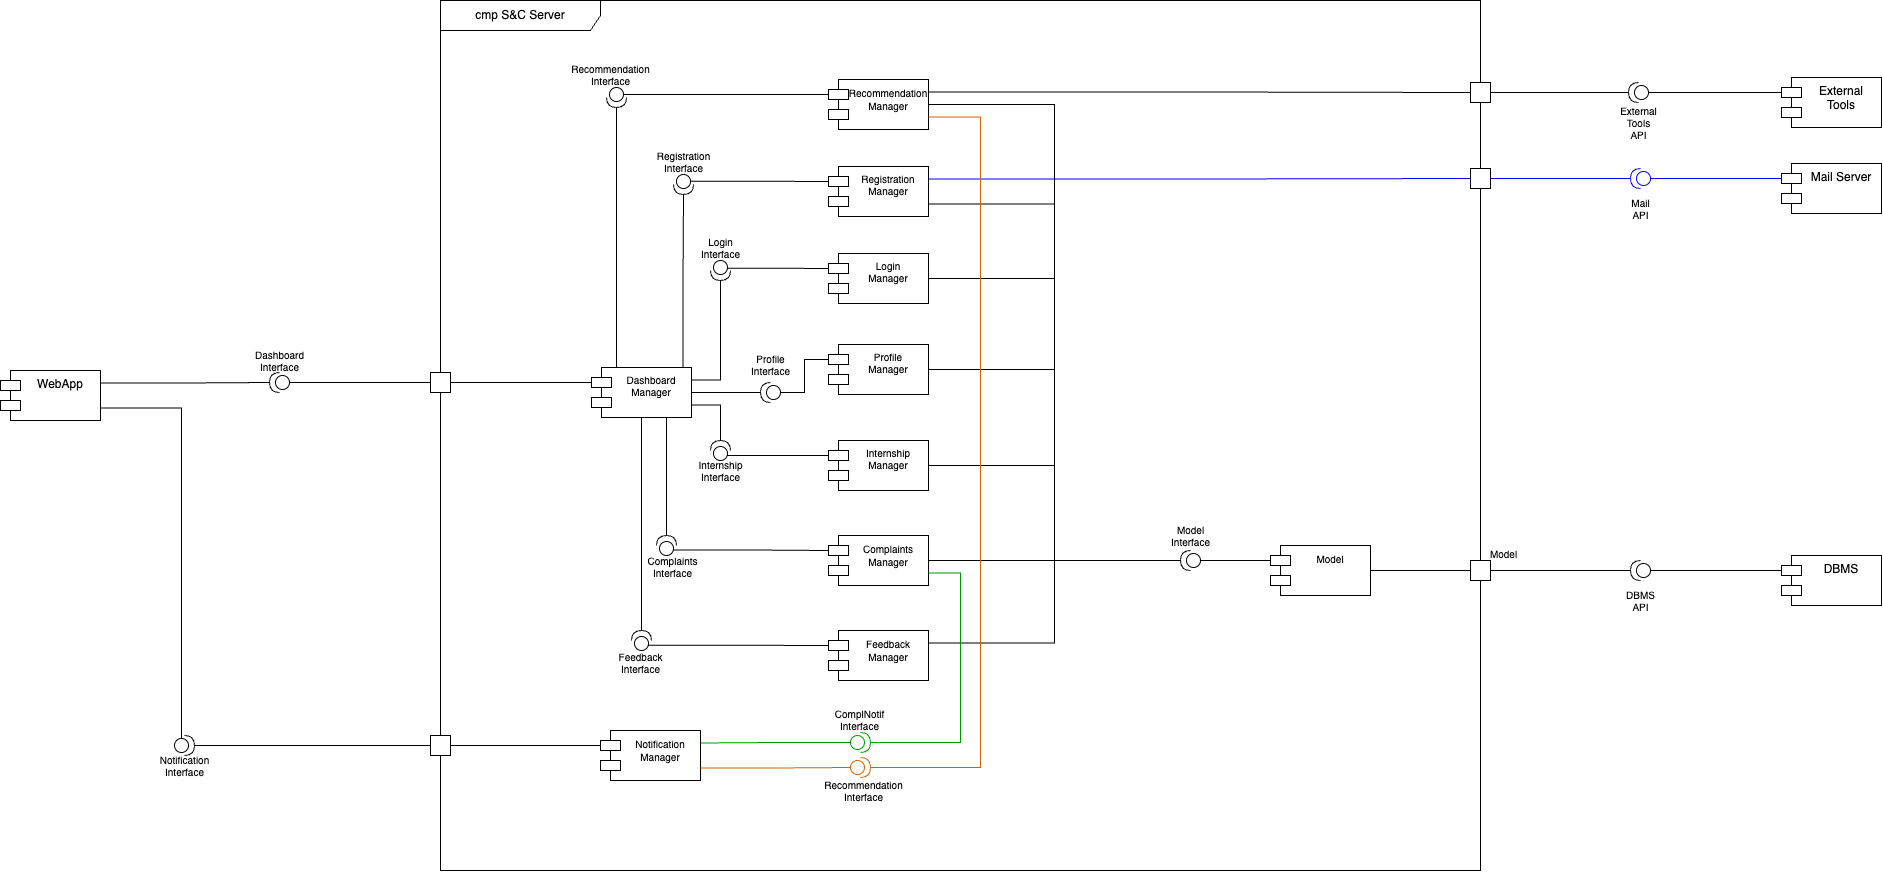
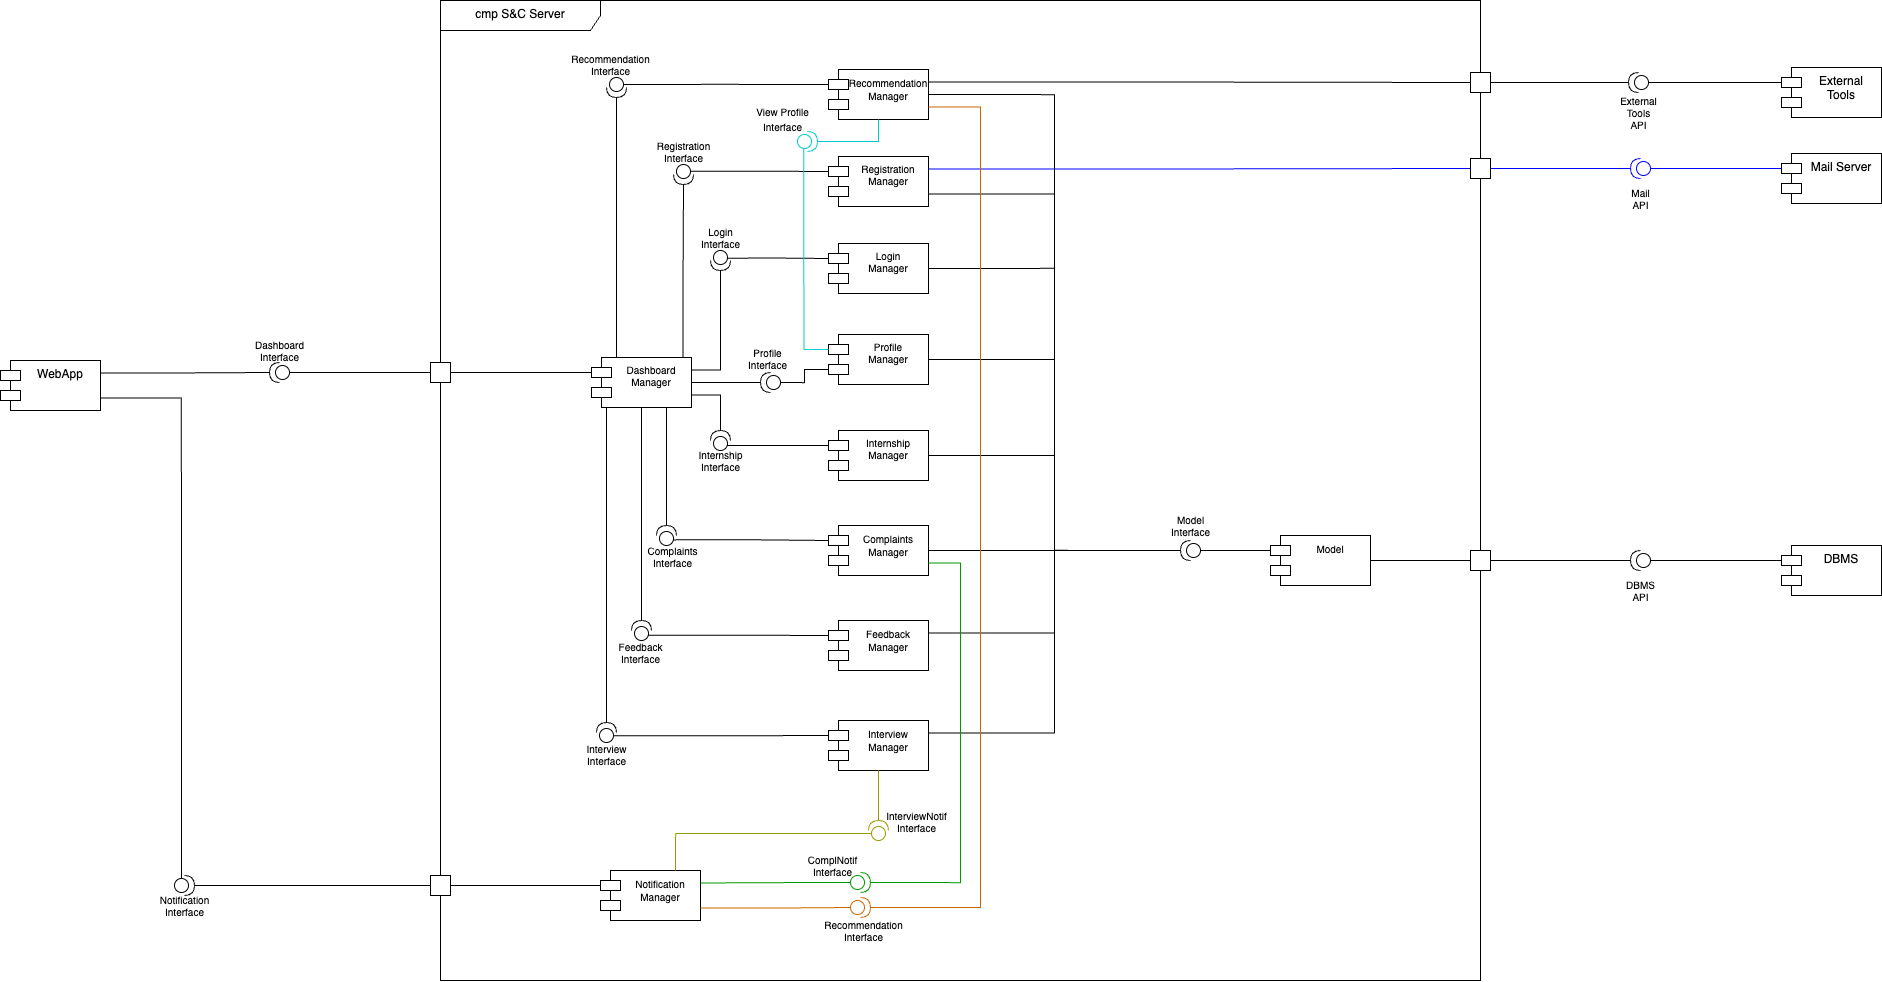
Completed component descriptions

diff --git a/DD/LaTeX/Chapters/2_Architectural_Design.tex b/DD/LaTeX/Chapters/2_Architectural_Design.tex
@@ -64,11 +64,11 @@ Here we represent an overview of how the entire S\&C architecture is composed of
     \item \textbf{Registration Manager:} This components handles the registration of new Users on the system. The User when trying to create a new account interacts with the Dashboard Manager, which contacts the Registration Manager through the Registration interface. Then the Registration Manager handle the request and manages to contact the Mail Server through the Mail API, to send a confirmation email to the new User. Once this is done it uses the Model through the Model Interface for saving user's information on the DBMS.
     \item \textbf{Login Manager:} This component handle the Login process for registered Users. When a User attempts to Login, the Dashboard Manager address the request to this component, which contacts the Model through the Model Interface to retrieve data from the DBMS and so authenticate the User. 
     \item \textbf{Profile Manager:} Component that allows Students to create their profile overview. When a Student starts the process to complete it's profile, the Dashboard Manager forwards the requests to the Profile manager using the Profile Interface. The Profile Manager communicates with the Model component through the Model Interface to store new information in the DBMS. It also manage to retrieve Students information when a company wants to view the overview of a Student within the recommendation list.
-    \item \textbf{Internship Manager:} .
-    \item \textbf{Interview Manager:} .
-    \item \textbf{Complaints Manager:} .
-    \item \textbf{Feedback Manager:} .
-    \item \textbf{Notification Manager:} .
+    \item \textbf{Internship Manager:} This component allow the Companies to create, modify and visualize internships. When a company wants to publish a new internship, interacts with the dashboard manager, which forwards the requests to the Internship Manager. This component manage to save new published internship, modify the status or retrieve information for internship search from the Model component, interacting with it via the Model Interface.
+    \item \textbf{Interview Manager:} This is the main component of the interview phase of an internship. When a company wants to start preparing tasks or submit them to candidates, interacts with the Dashboard Manager, who forwards the requests to the Interview Manager, who manage to interact with the Model through the Model Interface for saving information. It can also notify the candidates when the tasks are ready to be carried out, or results are ready, contacting the Notification Manager module through the InterviewNotif Interface.
+    \item \textbf{Complaints Manager:} This component handles the complaints related to an internship. When a User wants to file a complaint about an internship, interact with the Dashboard Manager, who forwards the requests to the Complaint Manager through the Complaint Interface, which needs to Notify the University of the Student related complaint, contacting the Notification Manager module through the InterviewNotif Interface. It can also store the complaints on the model for the purpose of reinforcing the algorithm.
+    \item \textbf{Feedback Manager:} This component has the tasks of handling the feedback process. When a User wants to provide a feedback about an internship, it interacts with the Dashboard Manager, who forwards the requests to the Feedback Manager, that manage to save the new data on the DBMS contacting the Model through the Model Interface. By doing that, it allows the Recommendation Manager to retreive useful information from the DBMS to reinforce the Recommendation algorithm.
+    \item \textbf{Notification Manager:} Component that handles each notification that has to be sent to the Users, in particular when a new match has been found from the recommendation algorithm, it sends a notification both to the Student and the Company related with that match; when the interview phase is completed, it sends the notification to all the candidates informing them wether they've been selected or not; when a new complaint is made from a company or a student, it notify the university that has to handle it. All the communication from other components to this are made through the InterviewNotif Interface, ComplNotif Interface or the Recommendation Interface, and it communicates with the web app through the Notification Interface..
 \end{itemize}
 
 \subsection{Evaluation Manager}
